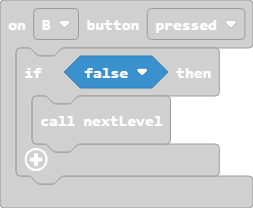
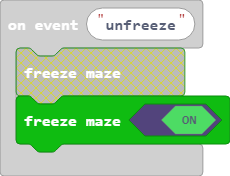
Minor

diff --git a/main.ts b/main.ts
@@ -159,7 +159,7 @@ function nextLevel () {
     maze.sendEvent("restart", 0)
 }
 maze.onEvent("unfreeze", function () {
-    maze.freeze(false)
+    maze.freeze(true)
 })
 maze.onEvent("fruit_despawn", function () {
     sprites.destroy(fruitSprite)
